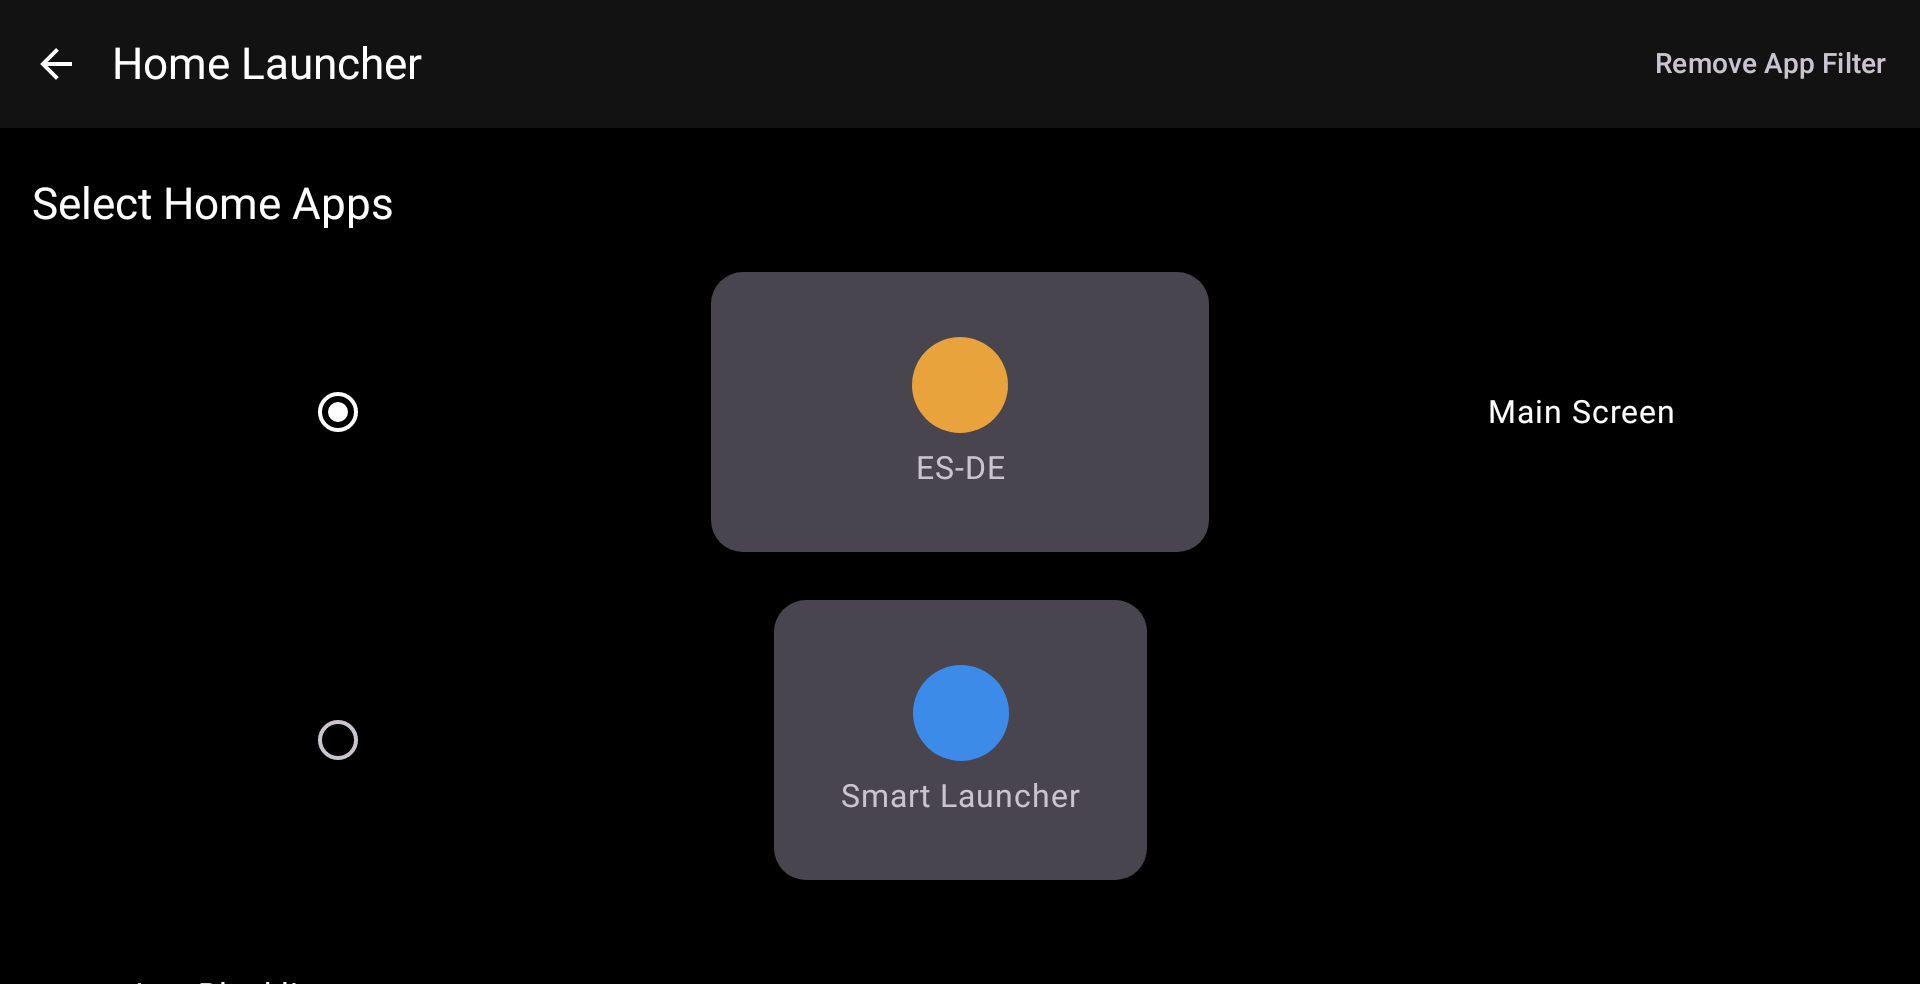
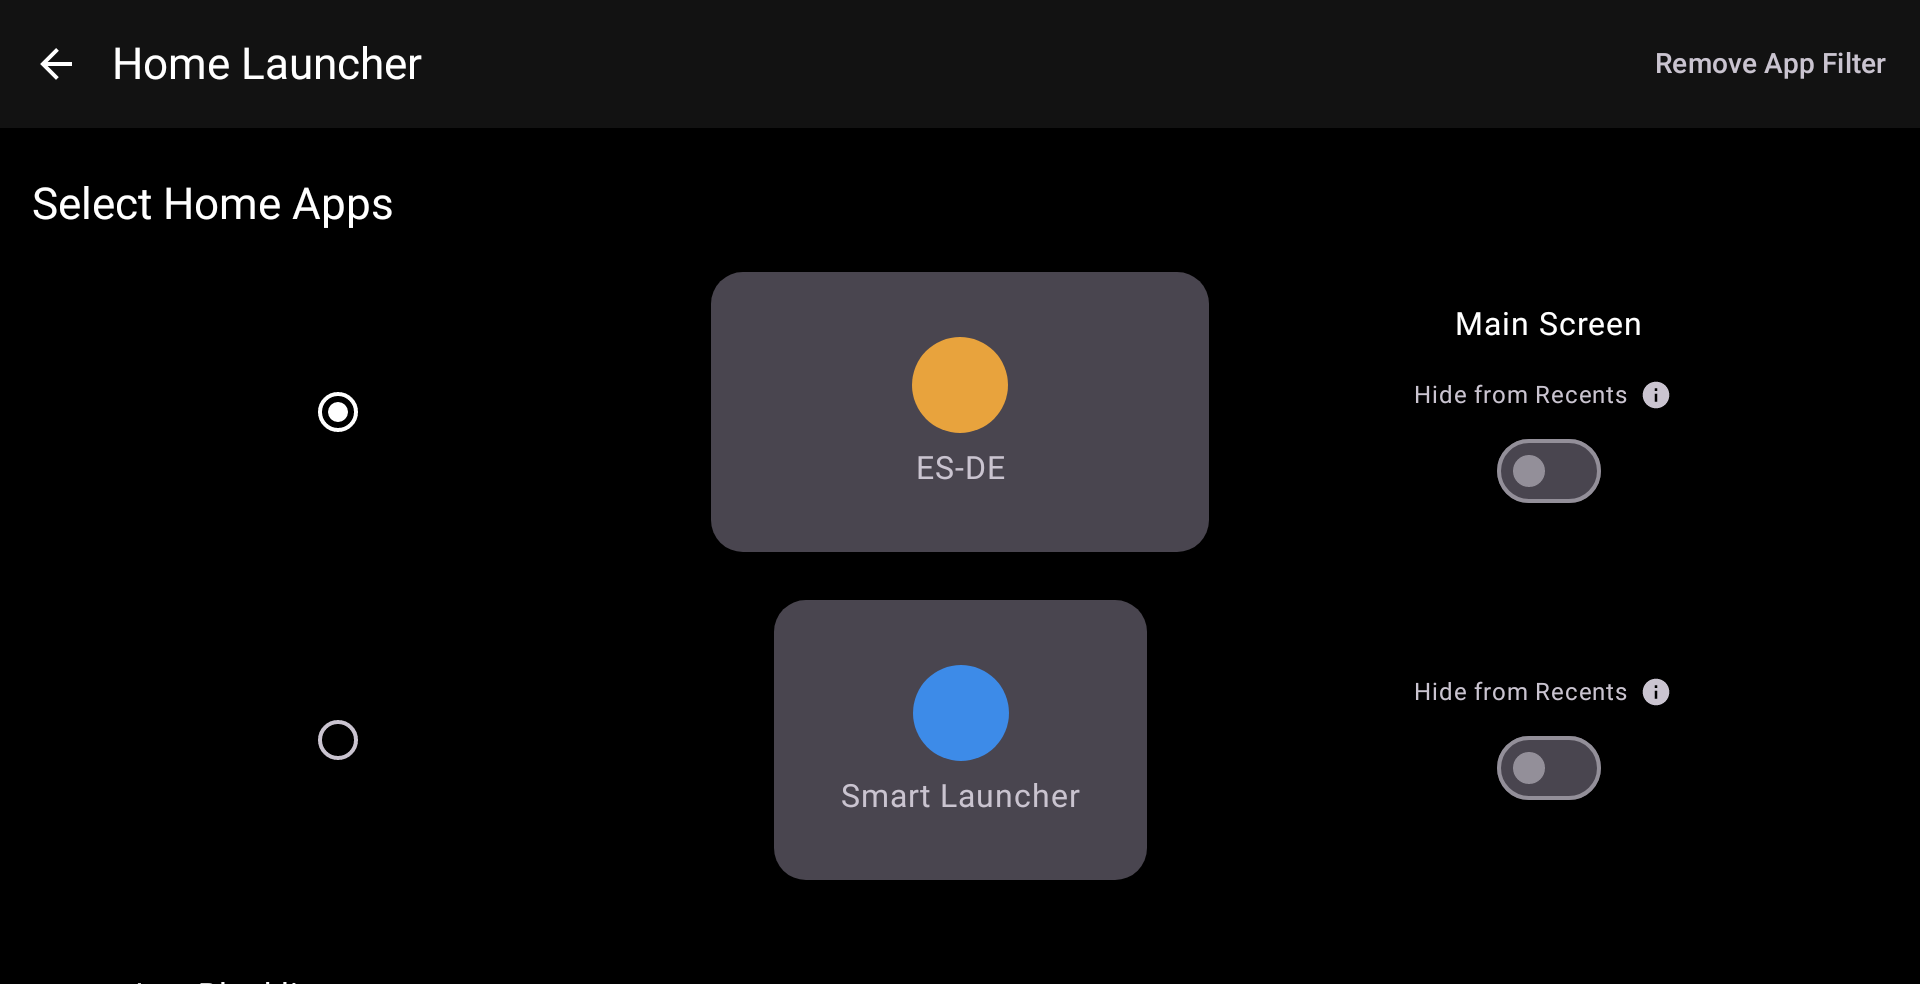
fix(ui): Hide from Recents switches no longer overlap the app card on narrow screens
The app cards have a fixed width and pass the 2/3 guideline on the bottom
screen, so the label column drew over the top card. The labels now start at
the top card's end (the wider card), so the two switches stay aligned.

Claude-Session: https://claude.ai/code/session_01ECNXNTnPXiUYPD9EG4F4iy

Changed region(s): [[0.75, 0.6707, 0.875, 0.8232], [0.75, 0.3963, 0.875, 0.5183], [0.75, 0.3049, 0.8438, 0.3354]]

diff --git a/app/src/main/java/xyz/blacksheep/mjolnir/settings/HomeLauncherSettingsMenu.kt b/app/src/main/java/xyz/blacksheep/mjolnir/settings/HomeLauncherSettingsMenu.kt
@@ -74,6 +74,7 @@ import androidx.compose.foundation.shape.RoundedCornerShape
 import androidx.compose.ui.text.style.TextAlign
 import androidx.compose.ui.unit.dp
 import androidx.constraintlayout.compose.ConstraintLayout
+import androidx.constraintlayout.compose.Dimension
 import androidx.navigation.NavController
 import xyz.blacksheep.mjolnir.KEY_CUSTOM_DOUBLE_TAP_DELAY
 import xyz.blacksheep.mjolnir.DEFAULT_TOP_BOTTOM_LAUNCH_DELAY_MS
@@ -522,7 +523,9 @@ fun HomeLauncherSettingsMenu(
                         Column(
                             horizontalAlignment = Alignment.CenterHorizontally,
                             modifier = Modifier.constrainAs(labelTop) {
-                                linkTo(start = c3, end = c4)
+                                // Cards have a fixed width and can pass c3 on a narrow screen. The top card is the wider one.
+                                linkTo(start = cardTop.end, end = c4)
+                                width = Dimension.preferredWrapContent
                                 centerVerticallyTo(cardTop)
                             }
                         ) {
@@ -641,7 +644,9 @@ fun HomeLauncherSettingsMenu(
                         Column(
                             horizontalAlignment = Alignment.CenterHorizontally,
                             modifier = Modifier.constrainAs(labelBottom) {
-                                linkTo(start = c3, end = c4)
+                                // Cards have a fixed width and can pass c3 on a narrow screen. The top card is the wider one.
+                                linkTo(start = cardTop.end, end = c4)
+                                width = Dimension.preferredWrapContent
                                 centerVerticallyTo(cardBottom)
                             }
                         ) {
